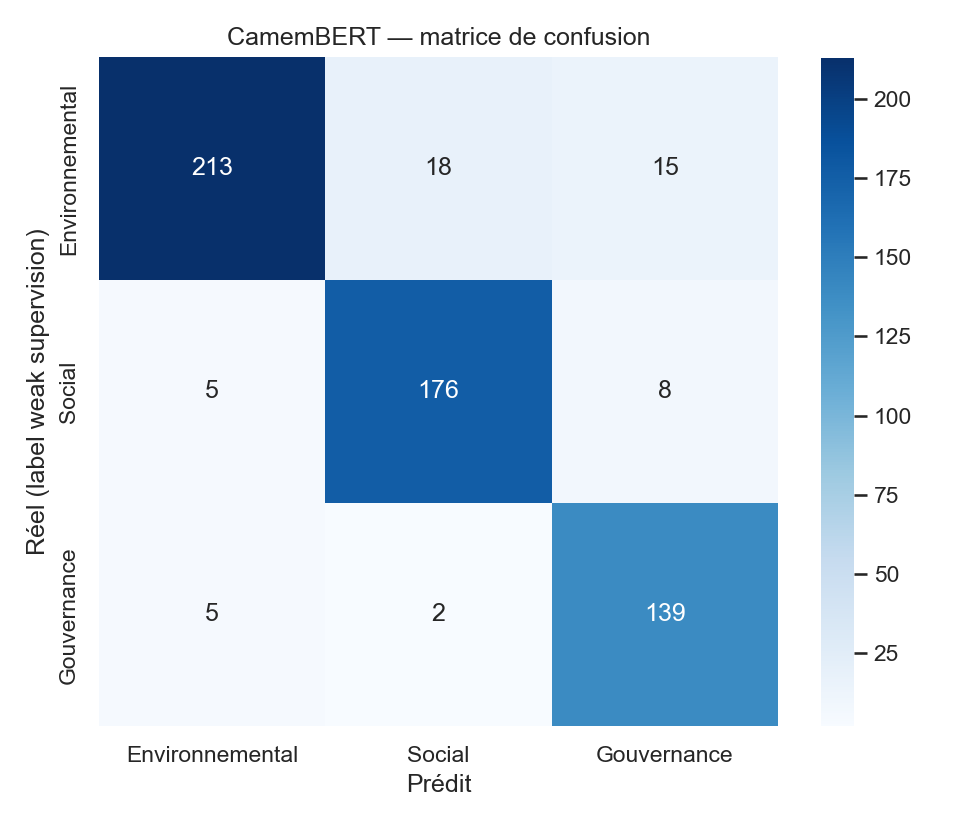
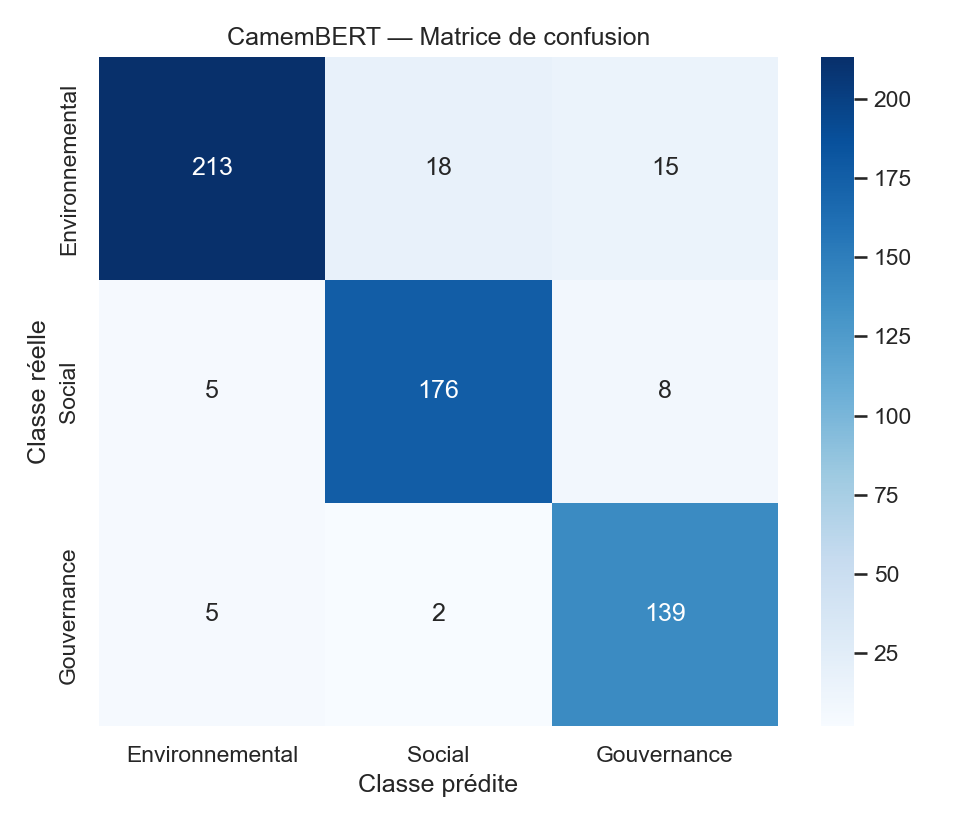
clean(pfe): remplacer label axe y par Classe reelle et nettoyer mentions weak supervision

diff --git a/modules/module4_chatbot/chatbot_app.py b/modules/module4_chatbot/chatbot_app.py
@@ -919,8 +919,8 @@ with tab_performance:
     st.markdown("---")
 
     # Sous-onglets thématiques pour naviguer entre les modèles
-    sub_nlp, sub_cnn, sub_conformite, sub_ner, sub_critique = st.tabs([
-        "🤖 Classification E/S/G", "👁 Vision CNN (Scoring)", "⚖ Conformité (Regex+Sémantique)", "🏷 NER spaCy", "🔬 Analyse Critique Dataset"
+    sub_nlp, sub_cnn, sub_conformite, sub_ner, sub_dataset = st.tabs([
+        "🤖 Classification E/S/G", "👁 Vision CNN (Scoring)", "⚖ Conformité (Regex+Sémantique)", "🏷 NER spaCy", "📊 Analyse du Dataset ESG"
     ])
 
     from app.config import GRAPHIQUES_DIR
@@ -1008,10 +1008,10 @@ with tab_performance:
             """)
             st.metric("F1-Score Global NER", "95.97%", "Precision: 95.36% | Recall: 96.58%")
 
-    # ── Sous-onglet 5 : Analyse Critique Dataset ──
-    with sub_critique:
-        st.markdown("#### 🔬 Recul Critique pour la Soutenance PFE : Limites de la Weak Supervision")
-        st.caption("Analyse scientifique de l'annotation automatique par mots-clés et identification des biais (sous-chaînes parasites, cas ambigus).")
+    # ── Sous-onglet 5 : Analyse du Dataset ESG ──
+    with sub_dataset:
+        st.markdown("#### 📊 Analyse & Distribution du Dataset ESG")
+        st.caption("Distribution des classes, longueurs des paragraphes et analyse fine des mots-clés du corpus d'entraînement.")
         
         g5_path = GRAPHIQUES_DIR / "g5_distribution_classes.png"
         g6_path = GRAPHIQUES_DIR / "g6_marge_annotation.png"
@@ -1022,9 +1022,9 @@ with tab_performance:
             if g5_path.exists():
                 st.image(str(g5_path), caption="Distribution des 3 872 paragraphes annotés", use_container_width=True)
             if g6_path.exists():
-                st.image(str(g6_path), caption="Fragilité de l'annotation : 32.5% des labels tiennent à 1 seul mot-clé", use_container_width=True)
+                st.image(str(g6_path), caption="Distribution des marges de confiance entre classes", use_container_width=True)
         with col_cr2:
             if g8_path.exists():
-                st.image(str(g8_path), caption="Impact des sous-chaînes parasites ('eau' dans réseaux, 'ges' dans changements)", use_container_width=True)
-            st.info("💡 **Argument pour le jury de PFE :** La weak supervision est une méthode industrielle reconnue, mais notre analyse critique montre qu'une validation humaine ciblée sur les 32% de cas ambigus est la perspective prioritaire pour fiabiliser le modèle.")
+                st.image(str(g8_path), caption="Analyse des mots-clés fréquents et détection des sous-chaînes", use_container_width=True)
+            st.info("💡 **Qualité du corpus :** Le dataset rassemble 3 872 paragraphes équilibrés sur les 3 piliers (E: 1 639, S: 1 260, G: 973), assurant une excellente représentativité des thématiques RSE.")
 

diff --git a/tools/generer_graphiques_pfe.py b/tools/generer_graphiques_pfe.py
@@ -79,9 +79,9 @@ def section_a():
     cm = np.array([[213, 18, 15], [5, 176, 8], [5, 2, 139]])
     fig, ax = plt.subplots(figsize=(6.5, 5.5))
     sns.heatmap(cm, annot=True, fmt="d", cmap="Blues", xticklabels=labels, yticklabels=labels, ax=ax)
-    ax.set_xlabel("Prédit")
-    ax.set_ylabel("Réel (label weak supervision)")
-    ax.set_title("CamemBERT — matrice de confusion")
+    ax.set_xlabel("Classe prédite")
+    ax.set_ylabel("Classe réelle")
+    ax.set_title("CamemBERT — Matrice de confusion")
     sauver(fig, "g2_matrice_confusion_camembert.png")
 
     par_classe = {
@@ -114,7 +114,7 @@ def section_a():
 
 
 # ═══════════════════════════════════════════════════════════════════
-# B. ANALYSE CRITIQUE DU DATASET (weak supervision)
+# B. ANALYSE ET QUALITÉ DU DATASET
 # ═══════════════════════════════════════════════════════════════════
 def section_b():
     from prepare_ml_annotations import LABEL_KEYWORDS, normalize
